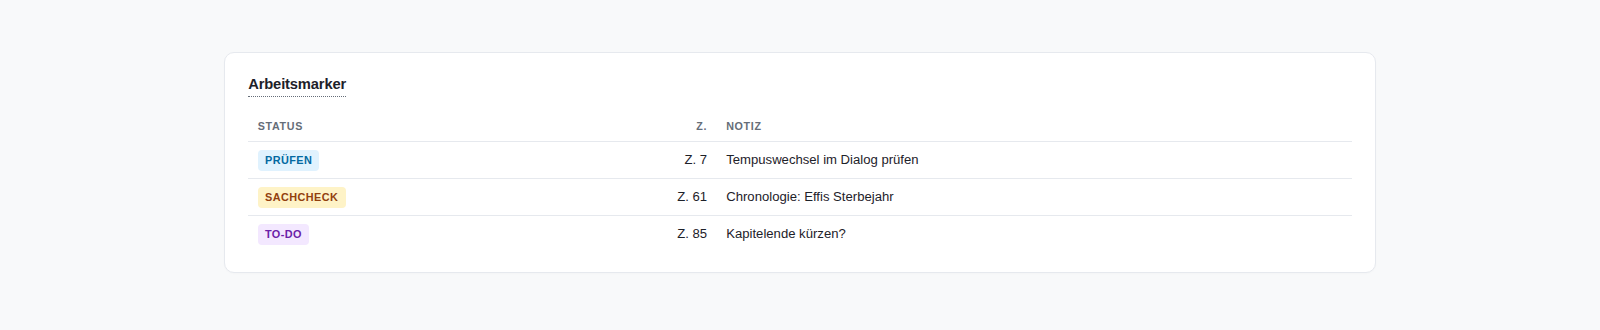
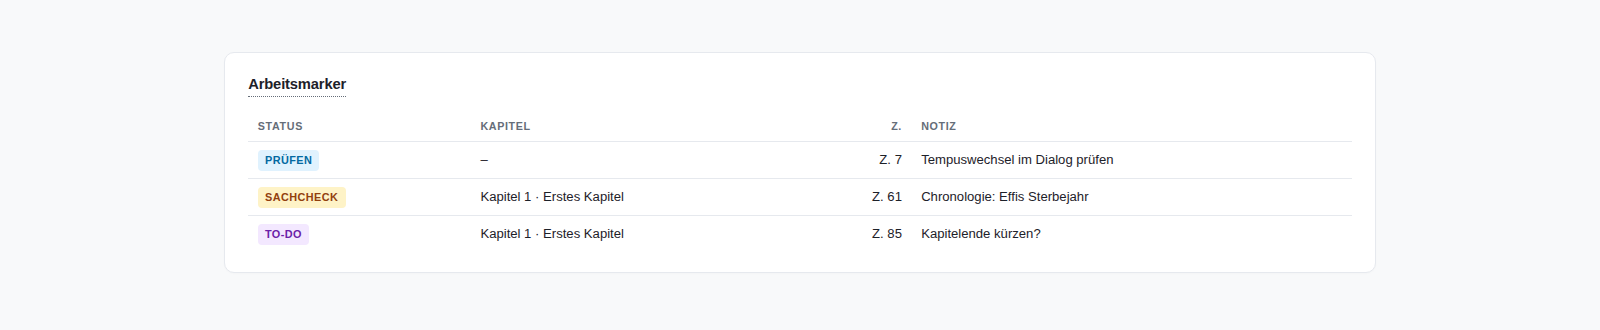
fix(ui): chapter names everywhere, layout overflow hardened (v1.9.1)
- dialogue/pacing/showing rows: 'Kap. N · Titel'; deviation KPI names its
  chapter; marker table gains a chapter column; character span tooltip
- matrix + marker tables scroll horizontally inside their panels
- long texts wrap/ellipsize (KPI labels, loading chips, status details,
  chapter titles, phrases, paragraphs); pacing/showing lists height-capped
  with a fade hint; toolbar select width-capped
- contract test extended; screenshots regenerated

diff --git a/src/lixity/ui/assets/dashboard.css b/src/lixity/ui/assets/dashboard.css
@@ -101,7 +101,13 @@ h2 {
 .status-item.warn .status-dot { background: #d97706; }
 .status-item.error .status-dot { background: var(--flag); }
 .status-item.unknown .status-dot { background: var(--neutral); }
-.status-detail { color: var(--muted); }
+.status-detail {
+  color: var(--muted);
+  overflow: hidden;
+  text-overflow: ellipsis;
+  white-space: nowrap;
+  max-width: 22rem;
+}
 
 /* --- Key figures (grouped KPI grid) ----------------------------------- */
 .kpis { display: grid; gap: .95rem; margin: 1.15rem 0; }
@@ -151,12 +157,14 @@ h2 {
   font-variant-numeric: tabular-nums;
   line-height: 1.2;
 }
+.kpi { min-width: 0; }
 .kpi span {
   color: var(--muted);
   font-size: .72rem;
   line-height: 1.35;
   margin-top: .25rem;
   text-wrap: balance;
+  overflow-wrap: anywhere;
 }
 .kpi-link { cursor: pointer; }
 .kpi-link:hover b { color: var(--accent); }
@@ -174,11 +182,21 @@ h2 {
 .dist { display: grid; gap: .5rem; }
 .dist .row {
   display: grid;
-  grid-template-columns: 8.5rem 1fr 7.5rem;
+  grid-template-columns: minmax(0, 13rem) minmax(4rem, 1fr) max-content;
   align-items: center;
   gap: .75rem;
   font-size: .83rem;
 }
+.dist .label { overflow: hidden; text-overflow: ellipsis; white-space: nowrap; }
+.dist.scrollable {
+  max-height: 22rem;
+  overflow-y: auto;
+  padding-right: .35rem;
+  mask-image: linear-gradient(to bottom, #000 calc(100% - 1.6rem), transparent);
+  -webkit-mask-image: linear-gradient(to bottom, #000 calc(100% - 1.6rem), transparent);
+}
+.dist.scrollable::-webkit-scrollbar { width: .45rem; }
+.dist.scrollable::-webkit-scrollbar-thumb { background: var(--line); border-radius: 999px; }
 .dist .bar { height: 6px; background: var(--line); border-radius: 999px; overflow: hidden; }
 .dist .bar i { display: block; height: 100%; background: var(--accent); }
 .dist .val { text-align: right; color: var(--muted); font-variant-numeric: tabular-nums; white-space: nowrap; }
@@ -200,7 +218,8 @@ h2 {
   border-bottom: 1px solid var(--line);
   font-size: .83rem;
 }
-.toolbar label { display: inline-flex; gap: .45rem; align-items: center; cursor: pointer; }
+.toolbar label { display: inline-flex; gap: .45rem; align-items: center; cursor: pointer; min-width: 0; }
+.toolbar select { max-width: 15rem; }
 .legend { display: inline-flex; flex-wrap: wrap; gap: 1rem; color: var(--muted); font-size: .78rem; }
 .swatch { display: inline-block; width: .6rem; height: .6rem; border-radius: 2px; margin-right: .3rem; vertical-align: -1px; }
 .totop { margin-left: auto; font-size: .8rem; color: var(--muted); text-decoration: none; }
@@ -222,7 +241,7 @@ h2 {
   align-items: baseline;
   justify-content: space-between;
 }
-.chapter-head h2 { font-size: .92rem; font-weight: 650; margin: 0; }
+.chapter-head h2 { font-size: .92rem; font-weight: 650; margin: 0; min-width: 0; overflow-wrap: anywhere; }
 .chapter-head .meta { color: var(--muted); font-size: .78rem; font-variant-numeric: tabular-nums; }
 .strip { display: flex; gap: 2px; margin: .65rem 0 0; }
 .chip {
@@ -309,7 +328,7 @@ body.layer-only .chip:not(.outlier):hover { opacity: .6; }
 .ptext.open .ptext-inner { padding: .8rem 1rem; }
 .ptext .anchor { color: var(--muted); font-size: .76rem; font-weight: 600; font-variant-numeric: tabular-nums; }
 .ptext .stats { color: var(--muted); font-size: .75rem; margin: .1rem 0 .45rem; line-height: 1.4; }
-.ptext p { margin: .4rem 0 0; font-size: .88rem; line-height: 1.6; }
+.ptext p { margin: .4rem 0 0; font-size: .88rem; line-height: 1.6; overflow-wrap: anywhere; }
 .ptext .row { display: flex; flex-wrap: wrap; gap: .35rem; margin-top: .45rem; }
 
 /* --- Style passport band chart (data-ink, no numeric table) ----------- */
@@ -359,6 +378,7 @@ body.layer-only .chip:not(.outlier):hover { opacity: .6; }
   position: relative;
   display: inline-flex;
   align-items: center;
+  max-width: 100%;
   gap: .4rem;
   padding: .18rem .5rem;
   border-radius: 6px;
@@ -369,6 +389,7 @@ body.layer-only .chip:not(.outlier):hover { opacity: .6; }
 }
 .load i {
   display: block;
+  flex: none;
   width: var(--w);
   max-width: 6rem;
   height: .3rem;
@@ -376,6 +397,13 @@ body.layer-only .chip:not(.outlier):hover { opacity: .6; }
   background: var(--accent);
 }
 .load.neg i { background: #7ba7d0; }
+.load b {
+  font-weight: 500;
+  min-width: 0;
+  overflow: hidden;
+  text-overflow: ellipsis;
+  white-space: nowrap;
+}
 
 /* --- Micro-bars in numeric table cells -------------------------------- */
 .bar-cell { position: relative; }
@@ -392,8 +420,11 @@ body.layer-only .chip:not(.outlier):hover { opacity: .6; }
 }
 
 /* --- Tables ----------------------------------------------------------- */
+.table-wrap { overflow-x: auto; }
+.table-wrap::-webkit-scrollbar { height: .45rem; }
+.table-wrap::-webkit-scrollbar-thumb { background: var(--line); border-radius: 999px; }
 table { width: 100%; border-collapse: collapse; font-size: .82rem; }
-th, td { text-align: left; padding: .45rem .6rem; border-bottom: 1px solid var(--line); vertical-align: top; }
+th, td { text-align: left; padding: .45rem .6rem; border-bottom: 1px solid var(--line); vertical-align: top; overflow-wrap: anywhere; }
 th {
   color: var(--muted);
   font-weight: 600;
@@ -502,7 +533,7 @@ table.heatmap th.ch { z-index: 3; }
   border-bottom: 1px solid var(--line);
 }
 .artifact:last-child { border-bottom: 0; }
-.artifact .name { font-weight: 600; }
+.artifact .name { font-weight: 600; overflow-wrap: anywhere; }
 .artifact .meta { color: var(--muted); font-size: .78rem; font-variant-numeric: tabular-nums; }
 .artifact a { color: var(--accent); text-decoration: none; font-size: .82rem; }
 .artifact a:hover { text-decoration: underline; }

diff --git a/docs/index.html b/docs/index.html
@@ -31,7 +31,7 @@
   "applicationCategory": "UtilitiesApplication",
   "applicationSubCategory": "Linguistic & Stylometric Analysis",
   "operatingSystem": "Linux, macOS, Windows",
-  "softwareVersion": "1.9.0",
+  "softwareVersion": "1.9.1",
   "isAccessibleForFree": true,
   "license": "https://github.com/mfahsold/lixity/blob/main/LICENSE",
   "codeRepository": "https://github.com/mfahsold/lixity",

diff --git a/src/lixity/language_data.py b/src/lixity/language_data.py
@@ -3947,11 +3947,11 @@ LAYER_LABELS = {
 
 # Cross-cutting UI strings (load hints, onboarding).
 UI_LABELS = {
-    "de": {"status_manuscript": "Manuskript", "status_analysis": "Analyse", "status_dossiers": "Dossiers", "status_exports": "Exporte", "status_nda": "NDA", "status_markers": "Marker", "marker_note": "Notiz (optional)", "layer_only": "Nur Abweichungen", "layer_next": "Nächste Abweichung", "layer_outliers": "Abweichungen", "click_hint": "Klick: zum Kapitel", "load_hint": "Markdown (.md), UTF-8 · Kapitel als »## Titel«", "panel_dialogue": "Dialogstruktur", "panel_characters": "Figurenpräsenz", "dlg_turns": "Redeabschnitte", "dlg_avg_turn": "Ø Länge je Redeabschnitt", "dlg_turns_per_1000": "Redeabschnitte je 1.000 W.", "chr_mentions": "Erwähnungen", "chr_chapters": "Kapitel", "chr_span": "Spanne", "chr_gap": "Größte Lücke", "chr_share": "Präsenz", "chr_name": "Figur", "panel_pacing": "Pacing & Szenen", "pac_scenes": "Szenen", "pac_avg_scene": "Ø Szene (Wörter)", "pac_hook": "Haken", "pac_hook_mean": "Haken-Ø", "panel_motifs": "Motive & Wiederholungen", "mot_phrase": "Wiederholte Phrase", "mot_count": "Anzahl", "mot_chapters": "Kapitel", "panel_showing": "Erzähldistanz (Show/Tell)", "show_tell": "Telling", "show_show": "Showing", "show_balance": "Balance"},
-    "en": {"status_manuscript": "Manuscript", "status_analysis": "Analysis", "status_dossiers": "Dossiers", "status_exports": "Exports", "status_nda": "NDA", "status_markers": "Markers", "marker_note": "Note (optional)", "layer_only": "Only deviations", "layer_next": "Next deviation", "layer_outliers": "deviations", "click_hint": "click: go to chapter", "load_hint": "Markdown (.md), UTF-8 · chapters as “## Title”", "panel_dialogue": "Dialogue structure", "panel_characters": "Character presence", "dlg_turns": "Turns", "dlg_avg_turn": "Avg. turn length", "dlg_turns_per_1000": "Turns per 1,000 words", "chr_mentions": "Mentions", "chr_chapters": "Chapters", "chr_span": "Span", "chr_gap": "Longest gap", "chr_share": "Presence", "chr_name": "Figure", "panel_pacing": "Pacing & scenes", "pac_scenes": "Scenes", "pac_avg_scene": "Avg. scene (words)", "pac_hook": "Hook", "pac_hook_mean": "Hook mean", "panel_motifs": "Motifs & repetition", "mot_phrase": "Repeated phrase", "mot_count": "Count", "mot_chapters": "Chapters", "panel_showing": "Narrative distance (show/tell)", "show_tell": "Telling", "show_show": "Showing", "show_balance": "Balance"},
-    "fr": {"status_manuscript": "Manuscrit", "status_analysis": "Analyse", "status_dossiers": "Dossiers", "status_exports": "Exports", "status_nda": "NDA", "status_markers": "Marqueurs", "marker_note": "Note (facultatif)", "layer_only": "Écarts seulement", "layer_next": "Écart suivant", "layer_outliers": "écarts", "click_hint": "clic : aller au chapitre", "load_hint": "Markdown (.md), UTF-8 · chapitres en « ## Titre »", "panel_dialogue": "Structure du dialogue", "panel_characters": "Présence des personnages", "dlg_turns": "Répliques", "dlg_avg_turn": "Longueur moyenne", "dlg_turns_per_1000": "Répliques pour 1 000 mots", "chr_mentions": "Mentions", "chr_chapters": "Chapitres", "chr_span": "Étendue", "chr_gap": "Plus grand écart", "chr_share": "Présence", "chr_name": "Personnage", "panel_pacing": "Rythme & scènes", "pac_scenes": "Scènes", "pac_avg_scene": "Scène moy. (mots)", "pac_hook": "Accroche", "pac_hook_mean": "Accroche moy.", "panel_motifs": "Motifs & répétitions", "mot_phrase": "Phrase répétée", "mot_count": "Occurrences", "mot_chapters": "Chapitres", "panel_showing": "Distance narrative (show/tell)", "show_tell": "Telling", "show_show": "Showing", "show_balance": "Équilibre"},
-    "es": {"status_manuscript": "Manuscrito", "status_analysis": "Análisis", "status_dossiers": "Dosieres", "status_exports": "Exportaciones", "status_nda": "NDA", "status_markers": "Marcadores", "marker_note": "Nota (opcional)", "layer_only": "Solo desviaciones", "layer_next": "Siguiente desviación", "layer_outliers": "desviaciones", "click_hint": "clic: ir al capítulo", "load_hint": "Markdown (.md), UTF-8 · capítulos como «## Título»", "panel_dialogue": "Estructura del diálogo", "panel_characters": "Presencia de personajes", "dlg_turns": "Turnos", "dlg_avg_turn": "Longitud media", "dlg_turns_per_1000": "Turnos por 1.000 palabras", "chr_mentions": "Menciones", "chr_chapters": "Capítulos", "chr_span": "Alcance", "chr_gap": "Mayor ausencia", "chr_share": "Presencia", "chr_name": "Personaje", "panel_pacing": "Ritmo y escenas", "pac_scenes": "Escenas", "pac_avg_scene": "Escena media (palabras)", "pac_hook": "Gancho", "pac_hook_mean": "Gancho medio", "panel_motifs": "Motivos y repeticiones", "mot_phrase": "Frase repetida", "mot_count": "Frecuencia", "mot_chapters": "Capítulos", "panel_showing": "Distancia narrativa (show/tell)", "show_tell": "Telling", "show_show": "Showing", "show_balance": "Equilibrio"},
-    "it": {"status_manuscript": "Manoscritto", "status_analysis": "Analisi", "status_dossiers": "Dossier", "status_exports": "Export", "status_nda": "NDA", "status_markers": "Marcatori", "marker_note": "Nota (facoltativa)", "layer_only": "Solo scarti", "layer_next": "Scarto successivo", "layer_outliers": "scarti", "click_hint": "clic: vai al capitolo", "load_hint": "Markdown (.md), UTF-8 · capitoli come «## Titolo»", "panel_dialogue": "Struttura del dialogo", "panel_characters": "Presenza dei personaggi", "dlg_turns": "Battute", "dlg_avg_turn": "Lunghezza media", "dlg_turns_per_1000": "Battute per 1.000 parole", "chr_mentions": "Menzioni", "chr_chapters": "Capitoli", "chr_span": "Arco", "chr_gap": "Maggiore assenza", "chr_share": "Presenza", "chr_name": "Personaggio", "panel_pacing": "Ritmo e scene", "pac_scenes": "Scene", "pac_avg_scene": "Scena media (parole)", "pac_hook": "Gancio", "pac_hook_mean": "Gancio medio", "panel_motifs": "Motivi e ripetizioni", "mot_phrase": "Frase ripetuta", "mot_count": "Occorrenze", "mot_chapters": "Capitoli", "panel_showing": "Distanza narrativa (show/tell)", "show_tell": "Telling", "show_show": "Showing", "show_balance": "Equilibrio"},
-    "pt": {"status_manuscript": "Manuscrito", "status_analysis": "Análise", "status_dossiers": "Dossiês", "status_exports": "Exportações", "status_nda": "NDA", "status_markers": "Marcadores", "marker_note": "Nota (opcional)", "layer_only": "Só desvios", "layer_next": "Próximo desvio", "layer_outliers": "desvios", "click_hint": "clique: ir ao capítulo", "load_hint": "Markdown (.md), UTF-8 · capítulos como «## Título»", "panel_dialogue": "Estrutura do diálogo", "panel_characters": "Presença das personagens", "dlg_turns": "Turnos", "dlg_avg_turn": "Comprimento médio", "dlg_turns_per_1000": "Turnos por 1.000 palavras", "chr_mentions": "Menções", "chr_chapters": "Capítulos", "chr_span": "Intervalo", "chr_gap": "Maior ausência", "chr_share": "Presença", "chr_name": "Personagem", "panel_pacing": "Ritmo e cenas", "pac_scenes": "Cenas", "pac_avg_scene": "Cena média (palavras)", "pac_hook": "Gancho", "pac_hook_mean": "Gancho médio", "panel_motifs": "Motivos e repetições", "mot_phrase": "Frase repetida", "mot_count": "Ocorrências", "mot_chapters": "Capítulos", "panel_showing": "Distância narrativa (show/tell)", "show_tell": "Telling", "show_show": "Showing", "show_balance": "Equilíbrio"},
-    "nl": {"status_manuscript": "Manuscript", "status_analysis": "Analyse", "status_dossiers": "Dossiers", "status_exports": "Exports", "status_nda": "NDA", "status_markers": "Markers", "marker_note": "Notitie (optioneel)", "layer_only": "Alleen afwijkingen", "layer_next": "Volgende afwijking", "layer_outliers": "afwijkingen", "click_hint": "klik: naar hoofdstuk", "load_hint": "Markdown (.md), UTF-8 · hoofdstukken als »## Titel«", "panel_dialogue": "Dialoogstructuur", "panel_characters": "Personageaanwezigheid", "dlg_turns": "Beurten", "dlg_avg_turn": "Gemiddelde lengte", "dlg_turns_per_1000": "Beurten per 1.000 woorden", "chr_mentions": "Vermeldingen", "chr_chapters": "Hoofdstukken", "chr_span": "Bereik", "chr_gap": "Grootste gat", "chr_share": "Aanwezigheid", "chr_name": "Personage", "panel_pacing": "Tempo & scènes", "pac_scenes": "Scènes", "pac_avg_scene": "Gem. scène (woorden)", "pac_hook": "Haakje", "pac_hook_mean": "Haakje gem.", "panel_motifs": "Motieven & herhalingen", "mot_phrase": "Herhaalde frase", "mot_count": "Aantal", "mot_chapters": "Hoofdstukken", "panel_showing": "Vertelafstand (show/tell)", "show_tell": "Telling", "show_show": "Showing", "show_balance": "Balans"},
+    "de": {"status_manuscript": "Manuskript", "status_analysis": "Analyse", "status_dossiers": "Dossiers", "status_exports": "Exporte", "status_nda": "NDA", "status_markers": "Marker", "marker_note": "Notiz (optional)", "layer_only": "Nur Abweichungen", "layer_next": "Nächste Abweichung", "layer_outliers": "Abweichungen", "click_hint": "Klick: zum Kapitel", "load_hint": "Markdown (.md), UTF-8 · Kapitel als »## Titel«", "panel_dialogue": "Dialogstruktur", "panel_characters": "Figurenpräsenz", "dlg_turns": "Redeabschnitte", "dlg_avg_turn": "Ø Länge je Redeabschnitt", "dlg_turns_per_1000": "Redeabschnitte je 1.000 W.", "chr_mentions": "Erwähnungen", "chr_chapters": "Kapitel", "chr_span": "Spanne", "chr_gap": "Größte Lücke", "chr_share": "Präsenz", "chr_name": "Figur", "panel_pacing": "Pacing & Szenen", "pac_scenes": "Szenen", "pac_avg_scene": "Ø Szene (Wörter)", "pac_hook": "Haken", "pac_hook_mean": "Haken-Ø", "panel_motifs": "Motive & Wiederholungen", "mot_phrase": "Wiederholte Phrase", "mot_count": "Anzahl", "mot_chapters": "Kapitel", "panel_showing": "Erzähldistanz (Show/Tell)", "show_tell": "Telling", "show_show": "Showing", "show_balance": "Balance", "mot_name": "Motiv"},
+    "en": {"status_manuscript": "Manuscript", "status_analysis": "Analysis", "status_dossiers": "Dossiers", "status_exports": "Exports", "status_nda": "NDA", "status_markers": "Markers", "marker_note": "Note (optional)", "layer_only": "Only deviations", "layer_next": "Next deviation", "layer_outliers": "deviations", "click_hint": "click: go to chapter", "load_hint": "Markdown (.md), UTF-8 · chapters as “## Title”", "panel_dialogue": "Dialogue structure", "panel_characters": "Character presence", "dlg_turns": "Turns", "dlg_avg_turn": "Avg. turn length", "dlg_turns_per_1000": "Turns per 1,000 words", "chr_mentions": "Mentions", "chr_chapters": "Chapters", "chr_span": "Span", "chr_gap": "Longest gap", "chr_share": "Presence", "chr_name": "Figure", "panel_pacing": "Pacing & scenes", "pac_scenes": "Scenes", "pac_avg_scene": "Avg. scene (words)", "pac_hook": "Hook", "pac_hook_mean": "Hook mean", "panel_motifs": "Motifs & repetition", "mot_phrase": "Repeated phrase", "mot_count": "Count", "mot_chapters": "Chapters", "panel_showing": "Narrative distance (show/tell)", "show_tell": "Telling", "show_show": "Showing", "show_balance": "Balance", "mot_name": "Motif"},
+    "fr": {"status_manuscript": "Manuscrit", "status_analysis": "Analyse", "status_dossiers": "Dossiers", "status_exports": "Exports", "status_nda": "NDA", "status_markers": "Marqueurs", "marker_note": "Note (facultatif)", "layer_only": "Écarts seulement", "layer_next": "Écart suivant", "layer_outliers": "écarts", "click_hint": "clic : aller au chapitre", "load_hint": "Markdown (.md), UTF-8 · chapitres en « ## Titre »", "panel_dialogue": "Structure du dialogue", "panel_characters": "Présence des personnages", "dlg_turns": "Répliques", "dlg_avg_turn": "Longueur moyenne", "dlg_turns_per_1000": "Répliques pour 1 000 mots", "chr_mentions": "Mentions", "chr_chapters": "Chapitres", "chr_span": "Étendue", "chr_gap": "Plus grand écart", "chr_share": "Présence", "chr_name": "Personnage", "panel_pacing": "Rythme & scènes", "pac_scenes": "Scènes", "pac_avg_scene": "Scène moy. (mots)", "pac_hook": "Accroche", "pac_hook_mean": "Accroche moy.", "panel_motifs": "Motifs & répétitions", "mot_phrase": "Phrase répétée", "mot_count": "Occurrences", "mot_chapters": "Chapitres", "panel_showing": "Distance narrative (show/tell)", "show_tell": "Telling", "show_show": "Showing", "show_balance": "Équilibre", "mot_name": "Motif"},
+    "es": {"status_manuscript": "Manuscrito", "status_analysis": "Análisis", "status_dossiers": "Dosieres", "status_exports": "Exportaciones", "status_nda": "NDA", "status_markers": "Marcadores", "marker_note": "Nota (opcional)", "layer_only": "Solo desviaciones", "layer_next": "Siguiente desviación", "layer_outliers": "desviaciones", "click_hint": "clic: ir al capítulo", "load_hint": "Markdown (.md), UTF-8 · capítulos como «## Título»", "panel_dialogue": "Estructura del diálogo", "panel_characters": "Presencia de personajes", "dlg_turns": "Turnos", "dlg_avg_turn": "Longitud media", "dlg_turns_per_1000": "Turnos por 1.000 palabras", "chr_mentions": "Menciones", "chr_chapters": "Capítulos", "chr_span": "Alcance", "chr_gap": "Mayor ausencia", "chr_share": "Presencia", "chr_name": "Personaje", "panel_pacing": "Ritmo y escenas", "pac_scenes": "Escenas", "pac_avg_scene": "Escena media (palabras)", "pac_hook": "Gancho", "pac_hook_mean": "Gancho medio", "panel_motifs": "Motivos y repeticiones", "mot_phrase": "Frase repetida", "mot_count": "Frecuencia", "mot_chapters": "Capítulos", "panel_showing": "Distancia narrativa (show/tell)", "show_tell": "Telling", "show_show": "Showing", "show_balance": "Equilibrio", "mot_name": "Motivo"},
+    "it": {"status_manuscript": "Manoscritto", "status_analysis": "Analisi", "status_dossiers": "Dossier", "status_exports": "Export", "status_nda": "NDA", "status_markers": "Marcatori", "marker_note": "Nota (facoltativa)", "layer_only": "Solo scarti", "layer_next": "Scarto successivo", "layer_outliers": "scarti", "click_hint": "clic: vai al capitolo", "load_hint": "Markdown (.md), UTF-8 · capitoli come «## Titolo»", "panel_dialogue": "Struttura del dialogo", "panel_characters": "Presenza dei personaggi", "dlg_turns": "Battute", "dlg_avg_turn": "Lunghezza media", "dlg_turns_per_1000": "Battute per 1.000 parole", "chr_mentions": "Menzioni", "chr_chapters": "Capitoli", "chr_span": "Arco", "chr_gap": "Maggiore assenza", "chr_share": "Presenza", "chr_name": "Personaggio", "panel_pacing": "Ritmo e scene", "pac_scenes": "Scene", "pac_avg_scene": "Scena media (parole)", "pac_hook": "Gancio", "pac_hook_mean": "Gancio medio", "panel_motifs": "Motivi e ripetizioni", "mot_phrase": "Frase ripetuta", "mot_count": "Occorrenze", "mot_chapters": "Capitoli", "panel_showing": "Distanza narrativa (show/tell)", "show_tell": "Telling", "show_show": "Showing", "show_balance": "Equilibrio", "mot_name": "Motivo"},
+    "pt": {"status_manuscript": "Manuscrito", "status_analysis": "Análise", "status_dossiers": "Dossiês", "status_exports": "Exportações", "status_nda": "NDA", "status_markers": "Marcadores", "marker_note": "Nota (opcional)", "layer_only": "Só desvios", "layer_next": "Próximo desvio", "layer_outliers": "desvios", "click_hint": "clique: ir ao capítulo", "load_hint": "Markdown (.md), UTF-8 · capítulos como «## Título»", "panel_dialogue": "Estrutura do diálogo", "panel_characters": "Presença das personagens", "dlg_turns": "Turnos", "dlg_avg_turn": "Comprimento médio", "dlg_turns_per_1000": "Turnos por 1.000 palavras", "chr_mentions": "Menções", "chr_chapters": "Capítulos", "chr_span": "Intervalo", "chr_gap": "Maior ausência", "chr_share": "Presença", "chr_name": "Personagem", "panel_pacing": "Ritmo e cenas", "pac_scenes": "Cenas", "pac_avg_scene": "Cena média (palavras)", "pac_hook": "Gancho", "pac_hook_mean": "Gancho médio", "panel_motifs": "Motivos e repetições", "mot_phrase": "Frase repetida", "mot_count": "Ocorrências", "mot_chapters": "Capítulos", "panel_showing": "Distância narrativa (show/tell)", "show_tell": "Telling", "show_show": "Showing", "show_balance": "Equilíbrio", "mot_name": "Motivo"},
+    "nl": {"status_manuscript": "Manuscript", "status_analysis": "Analyse", "status_dossiers": "Dossiers", "status_exports": "Exports", "status_nda": "NDA", "status_markers": "Markers", "marker_note": "Notitie (optioneel)", "layer_only": "Alleen afwijkingen", "layer_next": "Volgende afwijking", "layer_outliers": "afwijkingen", "click_hint": "klik: naar hoofdstuk", "load_hint": "Markdown (.md), UTF-8 · hoofdstukken als »## Titel«", "panel_dialogue": "Dialoogstructuur", "panel_characters": "Personageaanwezigheid", "dlg_turns": "Beurten", "dlg_avg_turn": "Gemiddelde lengte", "dlg_turns_per_1000": "Beurten per 1.000 woorden", "chr_mentions": "Vermeldingen", "chr_chapters": "Hoofdstukken", "chr_span": "Bereik", "chr_gap": "Grootste gat", "chr_share": "Aanwezigheid", "chr_name": "Personage", "panel_pacing": "Tempo & scènes", "pac_scenes": "Scènes", "pac_avg_scene": "Gem. scène (woorden)", "pac_hook": "Haakje", "pac_hook_mean": "Haakje gem.", "panel_motifs": "Motieven & herhalingen", "mot_phrase": "Herhaalde frase", "mot_count": "Aantal", "mot_chapters": "Hoofdstukken", "panel_showing": "Vertelafstand (show/tell)", "show_tell": "Telling", "show_show": "Showing", "show_balance": "Balans", "mot_name": "Motief"},
 }

diff --git a/src/lixity/ui/dashboard.py b/src/lixity/ui/dashboard.py
@@ -358,10 +358,17 @@ def render_dashboard(
             devs = fingerprint.deviations.get(num, {})
             top_field = max(devs, key=lambda k: abs(devs[k])) if devs else None
             top_layer = feature_layers.get(top_field) if top_field else None
+            top_chapter = next((c for c in chapters if c.num == num), None)
+            top_title = top_chapter.title if top_chapter is not None else ""
             style_tiles.append(
                 kpi(
                     f"Ø {N(mean_abs, 1)}",
-                    help_term(labels, "fingerprint", f"{L('deviation')} · {L('chapter')} {num}"),
+                    help_term(
+                        labels,
+                        "fingerprint",
+                        f"{L('deviation')} · {L('chapter')} {num}"
+                        + (f" · {esc(top_title)}" if top_title else ""),
+                    ),
                     jump=f"#ch-{num}",
                     layer=top_layer,
                     only=bool(devs),
@@ -439,7 +446,7 @@ def render_dashboard(
                 parts.append(
                     f'<div class="row" data-jump="#ch-{num}" role="button" tabindex="0" '
                     f'title="{esc(chapter.get("title", ""), quote=True)}">'
-                    f'<span>{L("chapter")} {num}</span>'
+                    f'<span class="label">{L("chapter")} {num} · {esc(chapter.get("title", ""))}</span>'
                     f'<span class="bar"><i style="width:{min(100.0, share):.1f}%"></i></span>'
                     f'<span class="val">{P(share)} · {int(chapter.get("turns", 0))} {esc(label(labels, "dlg_turns"))}</span>'
                     f"</div>"
@@ -463,12 +470,18 @@ def render_dashboard(
             jump = f' data-jump="#ch-{int(first)}" role="button" tabindex="0"' if first else ""
             share = float(figure.get("presence_ratio", 0.0)) * 100.0
             chapter_span = f"{first}–{figure.get('last_chapter')}" if first else "–"
+            first_chapter = next((c for c in chapters if c.num == first), None)
+            span_title = (
+                f"{L('chapter')} {first} · {esc(first_chapter.title)}"
+                if first_chapter is not None
+                else ""
+            )
             parts.append(
                 f'<tr class="row-link"{jump}>'
                 f'<td class="name">{esc(figure.get("name", ""))}</td>'
                 f'<td class="num">{int(figure.get("mentions", 0))}</td>'
                 f'<td class="num">{len(figure.get("chapters_present", []))} / {total}</td>'
-                f'<td class="num">{esc(chapter_span)}</td>'
+                f'<td class="num" title="{span_title}">{esc(chapter_span)}</td>'
                 f'<td class="num">{int(figure.get("longest_gap", 0))}</td>'
                 f'<td class="num bar-cell"><i style="--v:{min(100.0, share):.1f}%"></i>{share:.0f} %</td>'
                 f"</tr>"
@@ -487,7 +500,7 @@ def render_dashboard(
         parts.append("</div>")
         chapters_pacing = pacing["chapter_list"]
         max_asl = max((float(c.get("asl", 0.0)) for c in chapters_pacing), default=0.0) or 1.0
-        parts.append('<div class="dist">')
+        parts.append('<div class="dist scrollable">')
         for chapter in chapters_pacing:
             num = int(chapter.get("chapter_num", 0))
             asl = float(chapter.get("asl", 0.0))
@@ -495,7 +508,7 @@ def render_dashboard(
             parts.append(
                 f'<div class="row" data-jump="#ch-{num}" role="button" tabindex="0" '
                 f'title="{esc(chapter.get("title", ""), quote=True)}">'
-                f'<span>{L("chapter")} {num}</span>'
+                f'<span class="label">{L("chapter")} {num} · {esc(chapter.get("title", ""))}</span>'
                 f'<span class="bar"><i style="width:{min(100.0, asl / max_asl * 100.0):.1f}%"></i></span>'
                 f'<span class="val">{N(asl, 1)} · {esc(label(labels, "pac_hook"))} {hook}</span>'
                 f"</div>"
@@ -511,7 +524,7 @@ def render_dashboard(
             parts.append("<table><thead><tr>")
             parts.extend(
                 f"<th>{L(key)}</th>"
-                for key in ("chr_name", "mot_count", "mot_chapters", "chr_gap")
+                for key in ("mot_name", "mot_count", "mot_chapters", "chr_gap")
             )
             parts.append("</tr></thead><tbody>")
             for motif in motifs["motifs"]:
@@ -558,7 +571,7 @@ def render_dashboard(
         parts.append("</div>")
         showing_chapters = showing["chapter_list"]
         max_abs = max((abs(float(c.get("balance", 0.0))) for c in showing_chapters), default=0.0) or 1.0
-        parts.append('<div class="dist">')
+        parts.append('<div class="dist scrollable">')
         for chapter in showing_chapters:
             num = int(chapter.get("chapter_num", 0))
             balance = float(chapter.get("balance", 0.0))
@@ -566,7 +579,7 @@ def render_dashboard(
             parts.append(
                 f'<div class="row" data-jump="#ch-{num}" role="button" tabindex="0" '
                 f'title="{esc(chapter.get("title", ""), quote=True)}">'
-                f'<span>{L("chapter")} {num}</span>'
+                f'<span class="label">{L("chapter")} {num} · {esc(chapter.get("title", ""))}</span>'
                 f'<span class="bar"><i style="width:{width:.1f}%"></i></span>'
                 f'<span class="val">{N(balance, 2, signed=True)}</span>'
                 f"</div>"
@@ -712,9 +725,11 @@ def render_dashboard(
             parts.append('<section class="panel" id="markers">')
             parts.append(f"<h2>{help_term(labels, 'markers', L('markers'))}</h2>")
             if markers:
+                parts.append('<div class="table-wrap">')
                 parts.append("<table><thead><tr>")
                 parts.append(
-                    f'<th>{L("status")}</th><th class="num">{L("line")}</th><th>{L("notes")}</th>'
+                    f'<th>{L("status")}</th><th>{L("chapter")}</th>'
+                    f'<th class="num">{L("line")}</th><th>{L("notes")}</th>'
                 )
                 if controls:
                     parts.append("<th></th>")
@@ -722,9 +737,18 @@ def render_dashboard(
                 for m in markers:
                     kind_label = label(labels, "marker_" + m.kind)
                     note = esc(str(m.note or "")) or "–"
+                    marker_chapter = next(
+                        (c for c in chapters if c.start_line <= m.line <= c.end_line), None
+                    )
+                    chapter_cell = (
+                        f"{L('chapter')} {marker_chapter.num} · {esc(marker_chapter.title)}"
+                        if marker_chapter is not None
+                        else "–"
+                    )
                     parts.append(
                         f'<tr class="row-link" data-line="{m.line}" role="button" tabindex="0">'
                         f'<td><span class="badge marker-{m.kind}">{esc(kind_label)}</span></td>'
+                        f'<td>{chapter_cell}</td>'
                         f'<td class="num">{L("line")} {m.line}</td><td>{note}</td>'
                     )
                     if controls:
@@ -733,7 +757,7 @@ def render_dashboard(
                             f"{L('marker_resolve')}</button></td>"
                         )
                     parts.append("</tr>")
-                parts.append("</tbody></table>")
+                parts.append("</tbody></table></div>")
             else:
                 parts.append(f'<p class="hint">{L("markers_empty")}</p>')
             parts.append("</section>")
@@ -890,6 +914,7 @@ def render_dashboard(
     if chapters:
         parts.append('<section class="panel" id="matrix">')
         parts.append(f"<h2>{L('chapter_table')}</h2>")
+        parts.append('<div class="table-wrap">')
         parts.append("<table><thead><tr>")
         parts.append(
             f'<th>#</th><th>{L("chapter")}</th><th class="num">{L("words")}</th>'
@@ -929,7 +954,7 @@ def render_dashboard(
                 else:
                     parts.append('<td class="num">–</td>')
             parts.append("</tr>")
-        parts.append("</tbody></table></section>")
+        parts.append("</tbody></table></div></section>")
 
     # --- Publications -----------------------------------------------------
     if artifacts:

diff --git a/tests/test_ui_contract.py b/tests/test_ui_contract.py
@@ -122,6 +122,8 @@ class TestJsDomContract(unittest.TestCase):
             'id="pacing"',
             'id="motifs"',
             'id="showing"',
+            'class="table-wrap"',
+            'data-marker-resolve=',
             'data-jump="#ch-',
         ):
             self.assertIn(hook, html, hook)
@@ -240,6 +242,9 @@ class TestLabelCompleteness(unittest.TestCase):
             "mot_phrase",
             "mot_count",
             "mot_chapters",
+            "mot_name",
+            "show_tell",
+            "show_show",
             "panel_showing",
             "show_tell",
             "show_show",

diff --git a/src/lixity/ui/components.py b/src/lixity/ui/components.py
@@ -169,7 +169,7 @@ def loading_bars(
             else ""
         )
         bars.append(
-            f'<span class="load {sign}" style="--w:{width:.1f}%"{attrs}><i></i>{esc(name)}</span>'
+            f'<span class="load {sign}" style="--w:{width:.1f}%"{attrs}><i></i><b>{esc(name)}</b></span>'
         )
     return '<div class="loadings">' + "".join(bars) + "</div>"
 

diff --git a/src/lixity/__init__.py b/src/lixity/__init__.py
@@ -26,4 +26,4 @@ __all__ = [
     "StyleFingerprint",
 ]
 
-__version__ = "1.9.0"
+__version__ = "1.9.1"

diff --git a/CHANGELOG.md b/CHANGELOG.md
@@ -5,6 +5,23 @@ All notable changes to Lixity are documented in this file.
 The format follows [Keep a Changelog](https://keepachangelog.com/en/1.1.0/);
 this project uses [Semantic Versioning](https://semver.org/spec/v2.0.0.html).
 
+## [1.9.1] – 2026-09-22
+
+### Changed
+
+- **Chapter names wherever they are available**: dialogue, pacing and
+  showing rows show `Kap. N · Titel`, the deviation KPI names its chapter,
+  the marker table gained a chapter column, and the character span shows the
+  first chapter's title on hover.
+
+### Fixed
+
+- **Layout overflow hardened**: the chapter matrix and marker table scroll
+  horizontally inside their panels (like the heatmap); long texts wrap or
+  ellipsize (KPI labels, dimension loading chips, status details, chapter
+  titles, repeated phrases, paragraph text); the pacing and showing lists are
+  height-capped with a fade hint; the toolbar select is width-capped.
+
 ## [1.9.0] – 2026-09-22
 
 ### Added

diff --git a/docs/AGENTS.md b/docs/AGENTS.md
@@ -41,7 +41,7 @@ from that style, controlled for measurement noise and multiple testing.
 ### 3.1 `analyze --json` (schema_version 2)
 
 ```json
-{"meta": {"tool": "lixity", "version": "1.9.0", "schema_version": 2, "language": "de"},
+{"meta": {"tool": "lixity", "version": "1.9.1", "schema_version": 2, "language": "de"},
  "metrics": {"raw_words": 55331, "asl": 9.63, "ttr": 0.1784, "guiraud_r": 41.11,
              "hd_d": 0.997, "mtld": 78.4, "mattr": 0.742, "maas_a2": 0.031,
              "flesch_de": 71.2, "flesch_variant": "Flesch Reading Ease (Amstad)",
